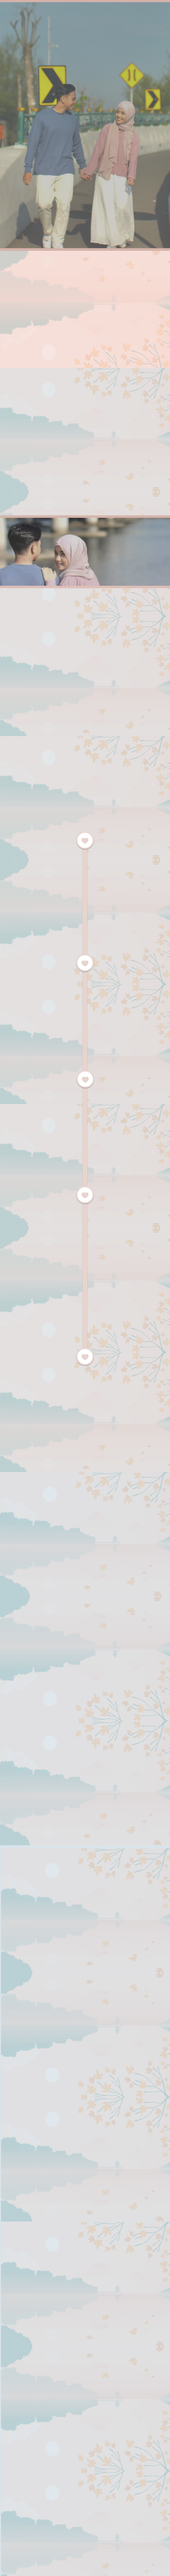
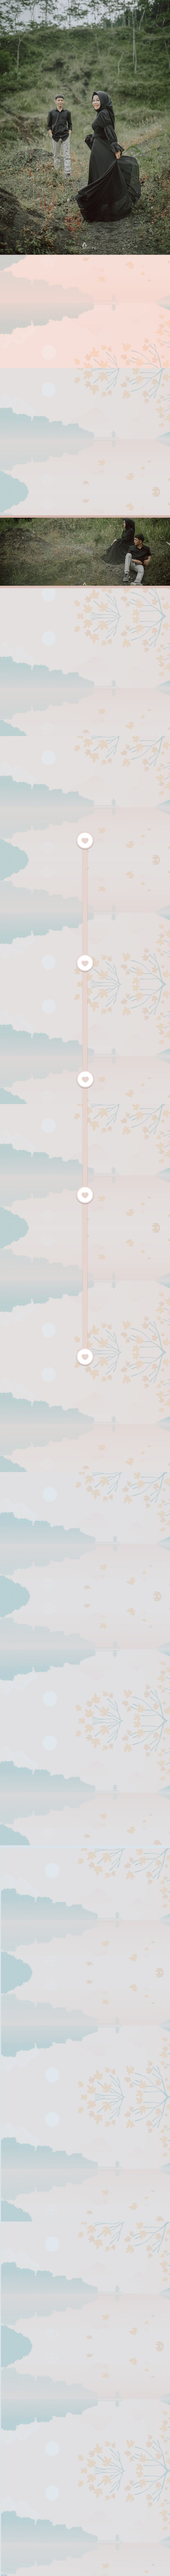
second

Changed region(s): [[0.0, 0.0, 1.0, 0.125], [0.0, 0.1875, 1.0, 0.25]]

diff --git a/Frontend/invitation.html b/Frontend/invitation.html
@@ -22,8 +22,8 @@
             <div class="d-flex flex-row justify-content-center text-light box blur-box ">
                 <div>
                     <p class="fs-53 fw-semibold" style="font-family: VVDS-Fifties;">The Wedding Of</p>
-                    <p class="fs-110" style="font-family: Pacifico;">Shabrina & Muchsin</p>
-                    <p class="fs-87" style="font-family: Style Script;">10 Februari 2024</p>
+                    <p class="fs-110" style="font-family: Pacifico;">Dini & Haris</p>
+                    <p class="fs-87" style="font-family: Style Script;">13 April 2024</p>
                 </div>
             </div>
         </div>
@@ -43,28 +43,28 @@
             </div>
             <div class="d-flex flex-row justify-content-end">
                 <div>
-                    <img class="profile-1" src="./assets/photo-profile-shabrina.png" alt="">
+                    <img class="profile-1" src="./assets/photo-profile-dini.png" alt="">
                     <p class="fs-53 fc-1 mt-1" style="font-family: Pacifico;">Dini Prastuti, S.M</p>
                 </div>
                 <div>
                     <p class="fs-110 mt-5 mx-5" style="font-family: Alex Brush;">&</p>
                 </div>
                 <div>
-                    <img class="profile-2" src="./assets/photo-profile-muchsin.png" alt="">
+                    <img class="profile-2" src="./assets/photo-profile-haris.png" alt="">
                     <p class="fs-53 fc-1 mt-1" style="font-family: Pacifico;">Haris Laksliosda, S.Kom</p>
                 </div>
             </div>
             <div class="d-flex flex-row justify-content-evenly mt-1">
                 <div class="parent-box rounded-4">
                     <p class="fc-2 fw-semibold fs-45" style="font-family: VVDS-Fifties;">Putri dari Pasangan</p>
-                    <p class="fc-2 fs-35" style="font-family: VVDS-Fifties;">Bpk. Ir. Yudhi Riyarso, M.Ec.Dev<br>dan Ibu. Prof. Dr. Dra. Sunarti, M.Kes</p>
+                    <p class="fc-2 fs-35" style="font-family: VVDS-Fifties;">Bpk. Ahmad Sugiono<br>dan<br>Ibu. Musriati</p>
                 </div>
                 <div>
                     <p class="fs-110 mt-5 mx-5 blank" style="font-family: Alex Brush; opacity: 0;">&</p>
                 </div>
                 <div class="parent-box rounded-4">
                     <p class="fc-2 fw-semibold fs-45" style="font-family: VVDS-Fifties;">Putra dari Pasangan</p>
-                    <p class="fc-2 fs-35" style="font-family: VVDS-Fifties;">Bpk. Hery Sutrisno, S.Pd dan<br>Ibu. Amirotun Solikhah, S.Pd M.Pd</p>
+                    <p class="fc-2 fs-35" style="font-family: VVDS-Fifties;">Bpk. Syahrial<br>dan<br>Ibu. Rosmita</p>
                 </div>
             </div>
         </div>
@@ -104,16 +104,16 @@
                 </div>
                 <div class="d-flex flex-row justify-content-center fc-1"  style="font-family: VVDS-Fifties;">
                     <div>
-                        <p class="fs-45 fw-bold">11:00 - 12:00 WIB & 12:00 - 13:00 WIB</p>
+                        <p class="fs-45 fw-bold">08:00 -  Selesai & 12:00 - Selesai</p>
                         <img class="location mt-50" src="./assets/icon-location.svg" alt="">
-                        <p class="fw-bold fs-62">University Club (UC) Hotel UGM</p>
-                        <p class="address" style="font-family: VVDS-Fifties;">Jl. Pancasila Bulaksumur No.2, Sendowo, Sinduadi, Mlati, Sleman Regency,Special Region of Yogyakarta 55281</p>
+                        <p class="fw-bold fs-62">Kediaman Mempelai Wanita</p>
+                        <p class="address" style="font-family: VVDS-Fifties;">Dusun 3, RT.012 RW.003, Kelurahan Sumampir, Kecamatan Rembang, Kabupaten Purbalingga, Provinsi Jawa Tengah 53356</p>
                     </div>
                 </div>
                 <div class="d-flex flex-row justify-content-between">
                     <img class="flower" src="./assets/flower-left-bottom.png" alt="">
                     <div class="mb-50 align-self-center">
-                        <a class="btn btn-open btn-outline-dark rounded-pill shadow" href="https://maps.app.goo.gl/MjtiFHYqngv4aKs36" role="button">
+                        <a class="btn btn-open btn-outline-dark rounded-pill shadow" href="https://maps.app.goo.gl/z94J3Edj3jvqXRjx9" role="button">
                             <h2 style="font-family: Playfair Display;">Google Maps</h2>
                         </a>
                     </div>
@@ -130,37 +130,37 @@
             <div class="d-flex flex-row justify-content-start">
                 <div class="rounded-5 bg-story" style="background: #F4E2DE; width: 40%; padding-inline: 5%; padding-block: 4%;">
                     <img class="w-100" src="./assets/story-2015.svg" alt="">
-                    <p class="text-start fc-1 fw-bold fs-62 mb-0" style="font-family: VVDS-Fifties;">2015</p>
-                    <p class="fc-1 fs-35" style="text-align: justify; font-family: VVDS-Fifties;">Perkenalan kami dimulai ketika kami sekolah di SMA Negeri 1 Yogyakarta. Saat itu kami berada di kelas yang sama selama 2 tahun, yaitu saat kelas 11 dan 12. Ada beberapa kejadian yang membuat kami sedikit tidak akur, namun kami tetap berteman.</p>
+                    <p class="text-start fc-1 fw-bold fs-62 mb-0" style="font-family: VVDS-Fifties;">2019</p>
+                    <p class="fc-1 fs-35" style="text-align: justify; font-family: VVDS-Fifties;">Perkenalan kami dimulai ketika kami bekerja di satu perusahaan yang sama. Saat itu kami berada di bagian yang berbeda. Ada beberapa kejadian yang membuat kami akrab, dan akhirnya membuat kami semakin dekat.</p>
                 </div>
             </div>
             <div class="d-flex flex-row justify-content-end">
                 <div class="rounded-5 bg-story" style="background: #F4E2DE; width: 40%; padding-inline: 5%; padding-block: 4%;">
                     <img class="w-100" src="./assets/story-2017.svg" alt="">
-                    <p class="text-start fc-1 fw-bold  fs-62 mb-0" style="font-family: VVDS-Fifties;">2017</p>
-                    <p class="fc-1 fs-35" style="text-align: justify; font-family: VVDS-Fifties;">Setelah lulus SMA, kami melanjutkan pendidikan kami di universitas yang berbeda. Meskipun terdapat perbedaan waktu dan jarak yang cukup jauh, kami tetap berkomunikasi. </p>
+                    <p class="text-start fc-1 fw-bold  fs-62 mb-0" style="font-family: VVDS-Fifties;">2019</p>
+                    <p class="fc-1 fs-35" style="text-align: justify; font-family: VVDS-Fifties;">Setelah sekian waktu berlalu, kami mecoba untuk menjalani hubungan dengan komitmen untuk menikah. Meskipun terdapat beberapa perselisihan, namun kami tetap pada komitmen kami. </p>
                 </div>
             </div>
             <div class="d-flex flex-row justify-content-start">
                 <div class="rounded-5 bg-story" style="background: #F4E2DE; width: 40%; padding-inline: 5%; padding-block: 4%;">
                     <img class="w-100" src="./assets/story-2019.svg" alt="">
-                    <p class="text-start fc-1 fw-bold  fs-62 mb-0" style="font-family: VVDS-Fifties">2019</p>
-                    <p class="fc-1 fs-35" style="text-align: justify; font-family: VVDS-Fifties;">Seringnya kami berkomunikasi membuat kami mulai nyaman satu sama lain. Pada tanggal 14 April 2019, kami memutuskan untuk LDR dan memberi support satu sama lain untuk kedepannya.</p>
+                    <p class="text-start fc-1 fw-bold  fs-62 mb-0" style="font-family: VVDS-Fifties">2020</p>
+                    <p class="fc-1 fs-35" style="text-align: justify; font-family: VVDS-Fifties;">Seiring berjalannya waktu, membuat kami mulai menata rencana pernikahan kami. Pada akhirnya menemukan tanggal yang pas, untuk kami melangsungkan rencana pernikahan.</p>
                 </div>
             </div>
             <div class="d-flex flex-row justify-content-end">
                 <div class="rounded-5 bg-story" style="background: #F4E2DE; width: 40%; padding-inline: 5%; padding-block: 4%;">
                     <img class="w-100" src="./assets/story-2023.svg" alt="">
-                    <p class="text-start fc-1 fw-bold  fs-62 mb-0" style="font-family: VVDS-Fifties">2023</p>
-                    <p class="fc-1 fs-25" style="text-align: justify; font-family: VVDS-Fifties;">Setelah melewati waktu yang cukup lama bersama, kami memutuskan untuk melanjutkan hubungan kami ke jenjang yang lebih serius. Pada tanggal 23 September 2023, telah berlangsung acara lamaran kami. Keluarga besar Muchsin dan Shabrina juga sudah bertemu pada saat lamaran. Dilanjutkan pada tanggal 30 Desember 2023, Muchsin dan keluarga besar memberi seserahan kepada Shabrina dan keluarga. 
+                    <p class="text-start fc-1 fw-bold  fs-62 mb-0" style="font-family: VVDS-Fifties">2021</p>
+                    <p class="fc-1 fs-25" style="text-align: justify; font-family: VVDS-Fifties;">Setelah melewati berbagai konflik dan perselisihan kecil, pada akhirnya kami sepakat untuk menunda hari pernikahan kami. Kami pun memutuskan untuk rehat dari hubungan kami, sampai waktu yang tidak ditentukan. 
                     </p>
                 </div>
             </div>
             <div class="d-flex flex-row justify-content-start">
                 <div class="rounded-5 bg-story" style="background: #F4E2DE; width: 40%; padding-inline: 5%; padding-block: 5%;">
                     <img class="w-100" src="./assets/story-2024.svg" alt="">
-                    <p class="text-start fc-1 fw-bold fs-62 mb-0" style="font-family: VVDS-Fifties;">2024</p>
-                    <p class="fc-1 fs-35" style="text-align: justify; font-family: VVDS-Fifties;">Atas izin Allah SWT dan keluarga kami, Insya Allah akan dilaksanakan akad dan resepsi pada tanggal 10 Februari 2024.</p>
+                    <p class="text-start fc-1 fw-bold fs-62 mb-0" style="font-family: VVDS-Fifties;">2023</p>
+                    <p class="fc-1 fs-35" style="text-align: justify; font-family: VVDS-Fifties;">Atas izin Allah SWT dan keluarga kami, Insya Allah akan dilaksanakan akad dan resepsi pada tanggal 13 April 2024.</p>
                 </div>
             </div>
         </div>
@@ -250,10 +250,10 @@
                         </select>
                     </div>
                     <div class="d-flex flex-row justify-content-start">
-                        <label for="">Ucapan/ Doa</label>
+                        <label for="">Ucapan/Doa</label>
                     </div>
                     <div class="d-flex flex-row justify-content-start">
-                        <input type="text" name="" id="ucapan" placeholder="Tulis Ucapan/ Doa"  class="shadow ps-4 inp w-700" style="font-size: 100%; color: rgba(51, 46, 42, 0.30); background: #F9F2EC;"/>
+                        <input type="text" name="" id="ucapan" placeholder="Tulis Ucapan/Doa"  class="shadow ps-4 inp w-700" style="font-size: 100%; color: rgba(51, 46, 42, 0.30); background: #F9F2EC;"/>
                     </div>
                     <div class="d-flex flex-row justify-content-end pt-30 pe-150">
                         <button type="submit" onclick="writeGuestBook()" class="rounded-pill shadow fw-bold mt-2 w-190" style="background: #F9F2EC;">

diff --git a/Frontend/index.html b/Frontend/index.html
@@ -13,10 +13,10 @@
     <div class="text-center bg-cover bg-behav">
       <div class="d-flex flex-row justify-content-center fc-1 pp-i" style="font-family: Playfair Display;">
         <div>
-          <p class="initial">S</p>
+          <p class="initial">D</p>
         </div>
         <div>
-          <p class="initial mb-0" style="margin-top: 62.1%;">M</p>
+          <p class="initial mb-0" style="margin-top: 62.1%;">H</p>
         </div>
       </div>
       <div class="d-flex flex-row justify-content-center fc-2  w-i" style="font-family: VVDS-Fifties;">
@@ -26,13 +26,13 @@
       </div>
       <div class="d-flex flex-row justify-content-center fs-110 fc-1 nama" style="font-family: Pacifico;">
         <div>
-          <p>Shabrina</p>
+          <p>Dini</p>
         </div>
         <div>
           <p> & </p>
         </div>
         <div>
-          <p>Muchsin</p>
+          <p>Haris</p>
         </div>
       </div>
       <div class="d-flex flex-row justify-content-center fc-2  w-i">

diff --git a/Backend/script.js b/Backend/script.js
@@ -12,7 +12,7 @@ let message = document.getElementById("ucapan");
 */
 timer();
 function timer(params) {
-  var countDownDate = new Date("Feb 10, 2024 11:00:00").getTime();
+  var countDownDate = new Date("Apr 13, 2024 08:00:00").getTime();
   var x = setInterval(function () {
     var now = new Date().getTime(); // Perbaikan new Date()
     var distance = countDownDate - now;
